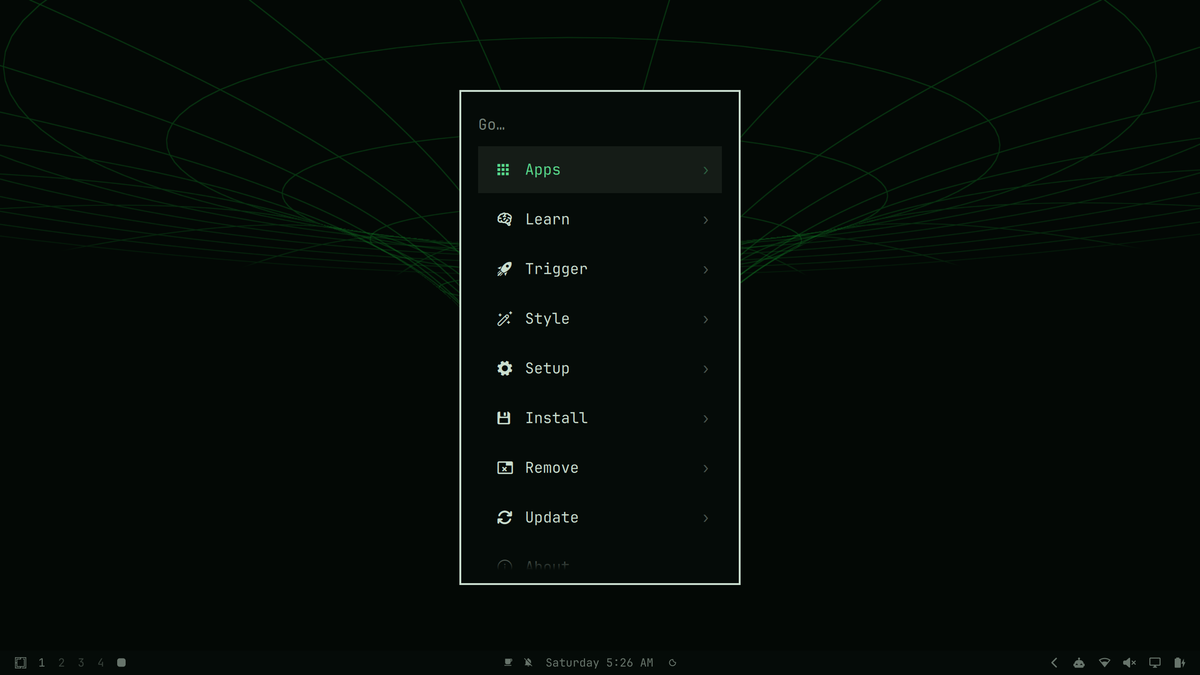
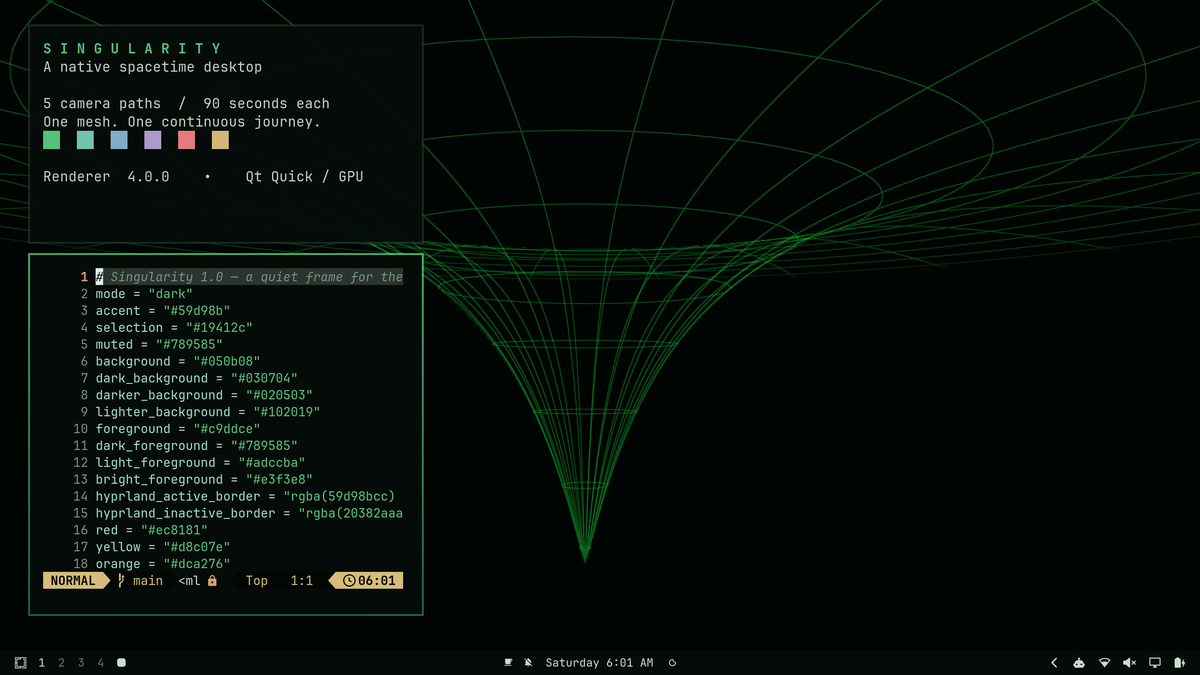
Showcase the animated desktop and matching application colors

diff --git a/README.md b/README.md
@@ -1,10 +1,14 @@
 # Singularity
 
-A quiet emerald-and-black theme for Omarchy, paired with an optional native
-animated spacetime desktop. Pale green text, subtle forest surfaces, and
-distinct semantic colors keep everyday applications readable around the mesh.
+An emerald-and-black Omarchy theme built around a native animated spacetime
+desktop. A transparent wire mesh bends into a singular point as the camera
+explores above and below the field. Pale green text, quiet surfaces, and
+distinct semantic colors keep applications readable around the motion.
 
 ![Singularity on a real Omarchy desktop](preview.png)
+
+**[Watch a complete 90-second camera pass](https://github.com/simpleprim8/spacetime-desktop/blob/main/media/journey.mp4)**
+— the animation is the centerpiece; the theme frames it.
 
 ## Install
 
